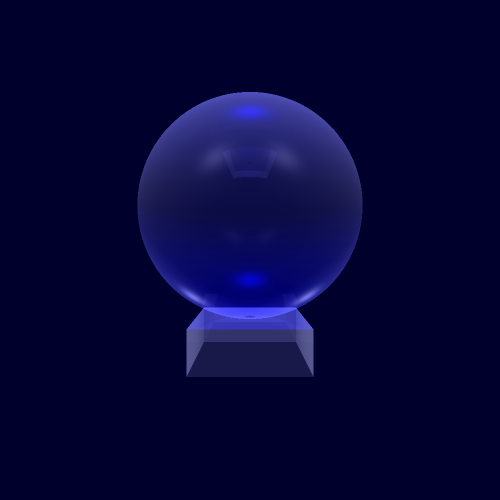
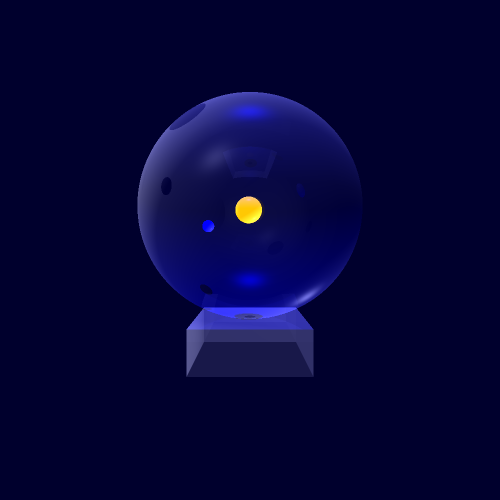
Soleil et mercure

diff --git a/src/unittests/MiniProjectRender1.java b/src/unittests/MiniProjectRender1.java
@@ -77,15 +77,28 @@ public class MiniProjectRender1 {
                 new Triangle(new Point3D(-40, -50, -40), new Point3D(40, -50, -40),
                         new Point3D(40, -50, 40))//
                         .setEmission(new Color(24,24,24))
-                        .setMaterial(new Material().setKd(0.25).setKs(0.4).setShininess(50).setKr(0.1).setKt(1)));
+                        .setMaterial(new Material().setKd(0.25).setKs(0.4).setShininess(50).setKr(0.1).setKt(1)),
+        new Sphere(new Point3D(1,30,0),10)//
+        .setEmission(new Color(java.awt.Color.ORANGE))//
+                .setMaterial(new Material().setShininess(50).setKd(0.55).setKs(0.4)),
+                new Sphere(new Point3D(35,20,30),5)//
+                        .setEmission(new Color(java.awt.Color.BLUE))//
+                        .setMaterial(new Material().setShininess(50).setKd(0.55).setKs(0.4))
+                );
 
 
        scene.lights.add( //
                 new SpotLight(new Color(java.awt.Color.WHITE),  new Point3D(-80, -90, 30), new Vector(2, 2, -6))//
                         .setKl(1E-5).setKq(1.5E-7));
         scene.lights.add( //
-                new SpotLight(new Color(java.awt.Color.WHITE),  new Point3D(80, -90, 30), new Vector(-2, 2, -6))//
+                new SpotLight(new Color(java.awt.Color.WHITE),  new Point3D(30, 30, 10), new Vector(2, 2, -6))//
                         .setKl(1E-5).setKq(1.5E-7));
+       scene.lights.add( //
+               new PointLight(new Color(java.awt.Color.WHITE),  new Point3D(1, 30, 0))//
+                 .setKl(0.00001).setKq(0.000001));
+        scene.lights.add( //
+                new PointLight(new Color(java.awt.Color.WHITE),  new Point3D(35, 20, 30))//
+                        .setKl(0.00001).setKq(0.000001));
         scene.lights.add(new PointLight(new Color(java.awt.Color.BLUE),new Point3D(0,1000,0)));
 
 
